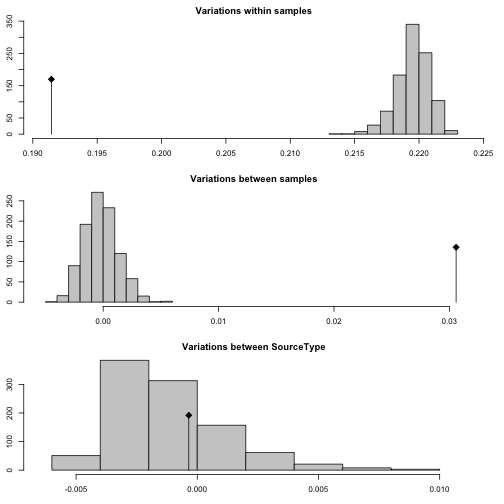
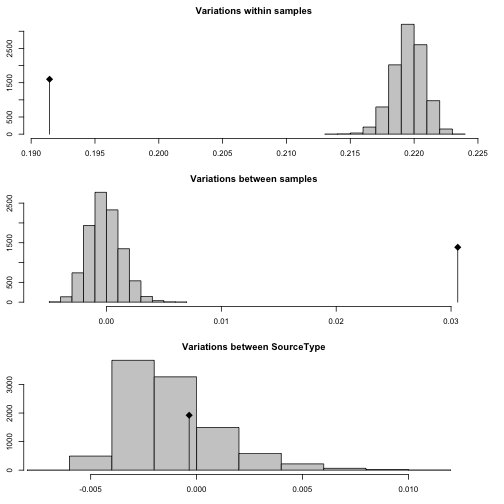
rerun make

diff --git a/results/wmn-differentiation.md b/results/wmn-differentiation.md
@@ -216,7 +216,7 @@ white mold nurseries within different regions.
 
 ```r
 ssc_amova_region <- poppr.amova(dat11cc, ~SourceType/Region, dist = bd, quiet = TRUE)
-ssc_amova_region_test <- randtest(ssc_amova_region, nrepet = 999)
+ssc_amova_region_test <- randtest(ssc_amova_region, nrepet = 9999)
 plot(ssc_amova_region_test)
 ```
 
@@ -233,10 +233,10 @@ plot(ssc_amova_region_test)
 ##   Between Region Within SourceType   20     12.0338468        13.7964379
 ##   Within Region                     296     56.6667061        86.3618966
 ##                                   statistic
-## levels                                 P Phi statistic
-##   Between SourceType               0.300   0.136381034
-##   Between Region Within SourceType 0.001   0.137746279
-##   Within Region                    0.001  -0.001583345
+## levels                                  P Phi statistic
+##   Between SourceType               0.2811   0.136381034
+##   Between Region Within SourceType 0.0001   0.137746279
+##   Within Region                    0.0001  -0.001583345
 ```
 
 Okay! This shows that when we account for Region after accounting for Source
@@ -271,9 +271,59 @@ plot(ssc_amova_nm_test)
 ##   Within Region                    0.0001    0.00115560
 ```
 
+When we remove the Mexican isolates (which only contained white mold nurseries
+and shared no genotypes), we see that indeed, the degree of differentiation
+went down.  Of course, if we look at the distribution of isolates between white
+mold nurseries and regions, we can see things are a bit lopsided:
+
 
 ```r
-make_amova_printable(ssc_amova_table, ssc_amova_nm_table) %>%  
+table(strata(dat11cc, ~SourceType/Region, combine = FALSE))
+```
+
+```
+##           Region
+## SourceType NE NY MN MI OR WA CO WI ID Australia CA France Mexico ND
+##      other 13  1  0 18  2 23 33  2  1         2  0      4      0 34
+##      wmn   24  0  9 40 15 35  1  0  0         4 18     17     15  7
+```
+
+The only regions that have at least ten samples in both white mold nurseries and
+production regions are NE, WA, and MI. We can see what happens when we subsample
+to these
+
+
+
+```r
+datnewami <- setPop(dat11cc, ~Region) %>% popsub(sublist = c("NE", "WA", "MI"))
+bdnewami     <- bruvo.dist(datnewami, replen = other(datnewami)$REPLEN)
+ssc_amova_newami <- poppr.amova(datnewami, ~SourceType/Region, dist = bdnewami, quiet = TRUE)
+ssc_amova_newami_test <- randtest(ssc_amova_newami, nrepet = 9999)
+plot(ssc_amova_newami_test)
+```
+
+![plot of chunk AMOVA-newami](./figures/wmn-differentiation///AMOVA-newami-1.png)
+
+```r
+(ssc_amova_newami_table <- make_amova_table(ssc_amova_newami, ssc_amova_newami_test))
+```
+
+```
+##                                   statistic
+## levels                             d.f. Sum of Squares Percent variation
+##   Between SourceType                  1      0.3672025         -1.831835
+##   Between Region Within SourceType    4      2.6285603          8.309128
+##   Within Region                     147     30.0470395         93.522707
+##                                   statistic
+## levels                                  P Phi statistic
+##   Between SourceType               0.4018    0.06477293
+##   Between Region Within SourceType 0.0001    0.08159657
+##   Within Region                    0.0001   -0.01831835
+```
+
+
+```r
+make_amova_printable(ssc_amova_table, ssc_amova_newami_table) %>%  
   as_tibble() %>%
   add_column(Hierarchy = c("Between Source", "Between Region within Source", "Within Region"), .before = 1) %>%
   readr::write_csv(path = file.path("results", "tables", "AMOVA-region.csv"), col_names = TRUE) %>%
@@ -294,20 +344,20 @@ make_amova_printable(ssc_amova_table, ssc_amova_nm_table) %>%
 -------------------------------------------------------------------------------------------------
 Hierarchy                d.f.           S.S.           % variation         $\Phi statistic$       
 --------------------- ----------- ----------------- ----------------- ---------------------------
-Between Source           1 (1)      0.897 (0.753)    -0.158 (0.116)         0.136 (0.0965)        
+Between Source           1 (1)      0.897 (0.367)    -0.158 (-1.83)         0.136 (0.0648)        
 
-Between Region within   20 (19)       12 (8.91)        13.8 (9.53)        **0.138 (0.0955)**      
+Between Region within   20 (4)        12 (2.63)        13.8 (8.31)        **0.138 (0.0816)**      
  Source                                                                                           
 
-Within Region          296 (282)     56.7 (55.1)       86.4 (90.3)    **-1.58e^-3^ (1.16e^-3^)**  
+Within Region          296 (147)      56.7 (30)        86.4 (93.5)     **-1.58e^-3^ (-0.0183)**   
 
 -------------------------------------------------------------------------------------------------
 ```
 
 
-When we remove the Mexican isolates (which only contained white mold nurseries
-and shared no genotypes), we see that indeed, the degree of differentiation
-went down. 
+
+
+
 
 ## Visualizing the partitions
 
@@ -827,6 +877,7 @@ LDS_PLOT
 ##  cellranger    1.1.0      2016-07-27 CRAN (R 3.4.0)                      
 ##  cluster       2.0.6      2017-03-16 CRAN (R 3.4.0)                      
 ##  coda          0.19-1     2016-12-08 CRAN (R 3.4.0)                      
+##  codetools     0.2-15     2016-10-05 CRAN (R 3.4.0)                      
 ##  colorspace    1.3-2      2016-12-14 CRAN (R 3.4.0)                      
 ##  compiler      3.4.1      2017-07-07 local                               
 ##  datasets    * 3.4.1      2017-07-07 local                               
@@ -841,8 +892,12 @@ LDS_PLOT
 ##  forcats       0.2.0      2017-01-23 CRAN (R 3.4.0)                      
 ##  foreign       0.8-69     2017-06-21 CRAN (R 3.4.0)                      
 ##  gdata         2.18.0     2017-06-06 CRAN (R 3.4.0)                      
-##  ggcompoplot   0.1.0      2017-06-30 Github (zkamvar/ggcompoplot@bcf007d)
+##  gdtools     * 0.1.4      2017-03-17 CRAN (R 3.4.0)                      
+##  ggcompoplot * 0.1.0      2017-06-30 Github (zkamvar/ggcompoplot@bcf007d)
+##  ggforce       0.1.1      2016-11-28 CRAN (R 3.4.0)                      
 ##  ggplot2     * 2.2.1      2016-12-30 CRAN (R 3.4.0)                      
+##  ggraph      * 1.0.0      2017-02-24 CRAN (R 3.4.0)                      
+##  ggrepel     * 0.6.11     2017-07-11 Github (slowkow/ggrepel@8fbd0a0)    
 ##  glue          1.1.1      2017-06-21 CRAN (R 3.4.0)                      
 ##  gmodels       2.16.2     2015-07-22 CRAN (R 3.4.0)                      
 ##  graphics    * 3.4.1      2017-07-07 local                               
@@ -855,14 +910,15 @@ LDS_PLOT
 ##  highr         0.6        2016-05-09 CRAN (R 3.4.0)                      
 ##  hms           0.3        2016-11-22 CRAN (R 3.4.0)                      
 ##  htmltools     0.3.6      2017-04-28 CRAN (R 3.4.0)                      
+##  htmlwidgets   0.8        2016-11-09 CRAN (R 3.4.0)                      
 ##  httpuv        1.3.3      2015-08-04 CRAN (R 3.4.0)                      
 ##  httr          1.2.1      2016-07-03 CRAN (R 3.4.0)                      
 ##  huxtable      0.3.0      2017-05-18 CRAN (R 3.4.0)                      
-##  igraph        1.0.1      2015-06-26 CRAN (R 3.4.0)                      
+##  igraph      * 1.0.1      2015-06-26 CRAN (R 3.4.0)                      
 ##  jsonlite      1.5        2017-06-01 CRAN (R 3.4.0)                      
 ##  knitr       * 1.16       2017-05-18 CRAN (R 3.4.0)                      
 ##  labeling      0.3        2014-08-23 CRAN (R 3.4.0)                      
-##  lattice       0.20-35    2017-03-25 CRAN (R 3.4.0)                      
+##  lattice     * 0.20-35    2017-03-25 CRAN (R 3.4.0)                      
 ##  lazyeval      0.2.0      2016-06-12 CRAN (R 3.4.0)                      
 ##  LearnBayes    2.15       2014-05-29 CRAN (R 3.4.0)                      
 ##  lubridate     1.6.0      2016-09-13 CRAN (R 3.4.0)                      
@@ -879,7 +935,7 @@ LDS_PLOT
 ##  nlme          3.1-131    2017-02-06 CRAN (R 3.4.0)                      
 ##  parallel      3.4.1      2017-07-07 local                               
 ##  pegas         0.10       2017-05-03 CRAN (R 3.4.0)                      
-##  permute       0.9-4      2016-09-09 CRAN (R 3.4.0)                      
+##  permute     * 0.9-4      2016-09-09 CRAN (R 3.4.0)                      
 ##  phangorn      2.2.0      2017-04-03 CRAN (R 3.4.0)                      
 ##  pkgconfig     2.0.1      2017-03-21 CRAN (R 3.4.0)                      
 ##  plyr          1.8.4      2016-06-08 CRAN (R 3.4.0)                      
@@ -910,10 +966,14 @@ LDS_PLOT
 ##  tidyr       * 0.6.3      2017-05-15 CRAN (R 3.4.0)                      
 ##  tidyverse   * 1.1.1      2017-01-27 CRAN (R 3.4.0)                      
 ##  tools         3.4.1      2017-07-07 local                               
+##  tweenr        0.1.5      2016-10-10 CRAN (R 3.4.0)                      
+##  udunits2      0.13       2016-11-17 CRAN (R 3.4.0)                      
+##  units         0.4-5      2017-06-15 CRAN (R 3.4.0)                      
 ##  utils       * 3.4.1      2017-07-07 local                               
-##  vegan         2.4-3      2017-04-07 CRAN (R 3.4.0)                      
-##  viridis       0.4.0      2017-03-27 CRAN (R 3.4.0)                      
-##  viridisLite   0.2.0      2017-03-24 CRAN (R 3.4.0)                      
+##  vegan       * 2.4-3      2017-04-07 CRAN (R 3.4.0)                      
+##  viridis     * 0.4.0      2017-03-27 CRAN (R 3.4.0)                      
+##  viridisLite * 0.2.0      2017-03-24 CRAN (R 3.4.0)                      
+##  visNetwork  * 2.0.0      2017-06-26 cran (@2.0.0)                       
 ##  withr         1.0.2      2016-06-20 CRAN (R 3.4.0)                      
 ##  xml2          1.1.1      2017-01-24 CRAN (R 3.4.0)                      
 ##  xtable        1.8-2      2016-02-05 CRAN (R 3.4.0)
